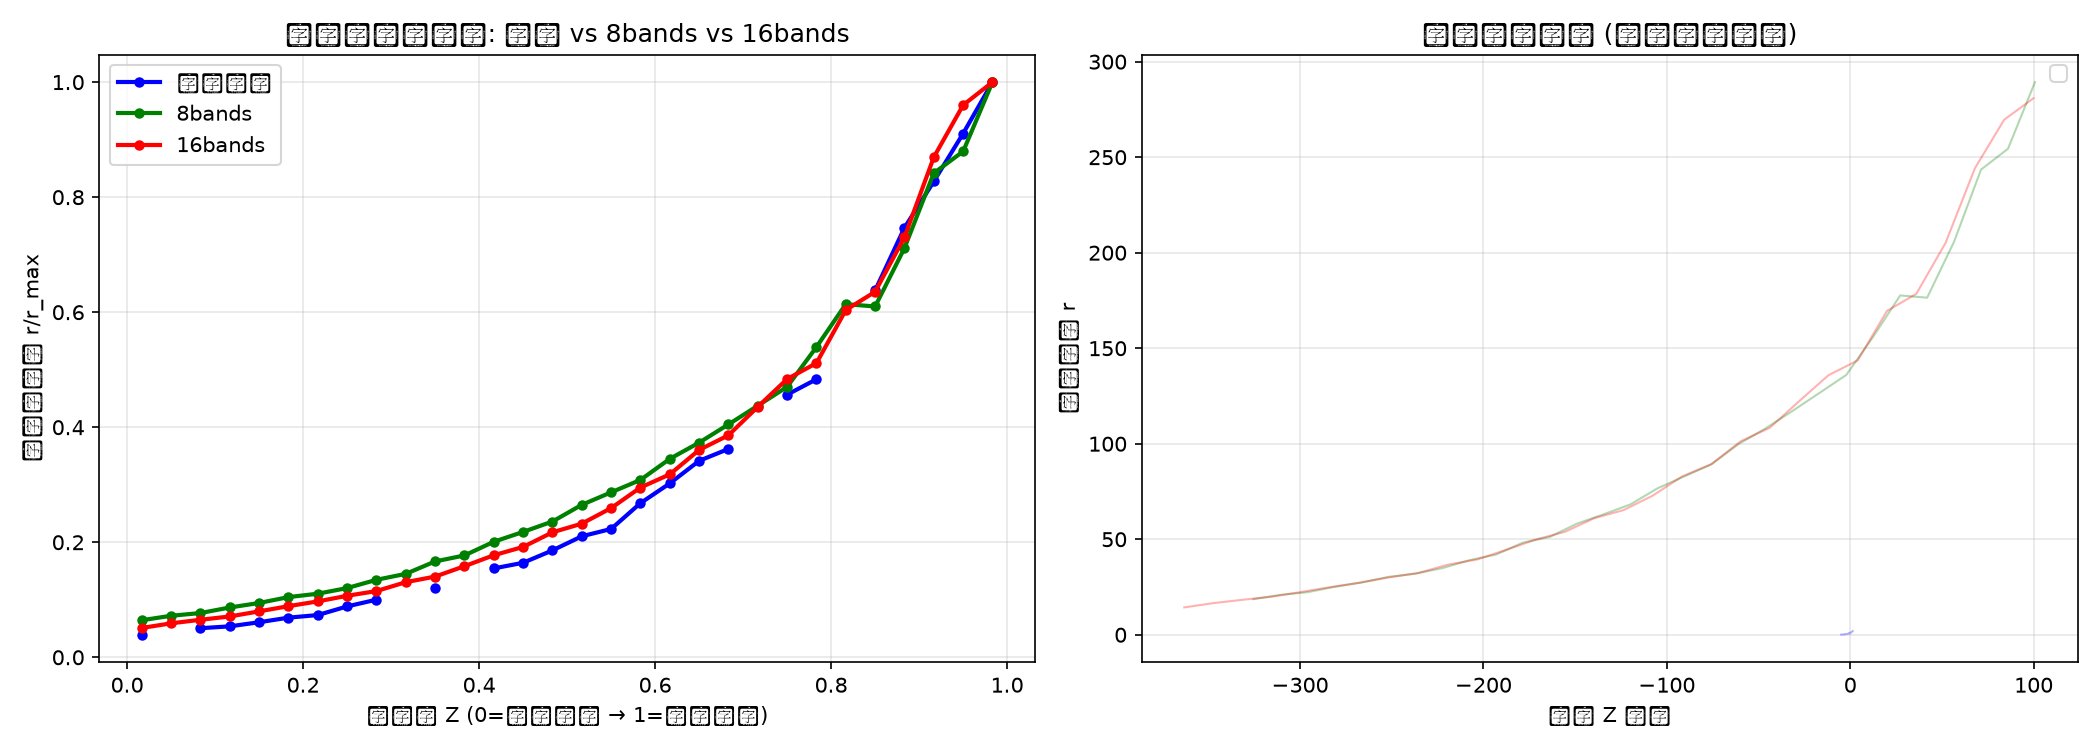
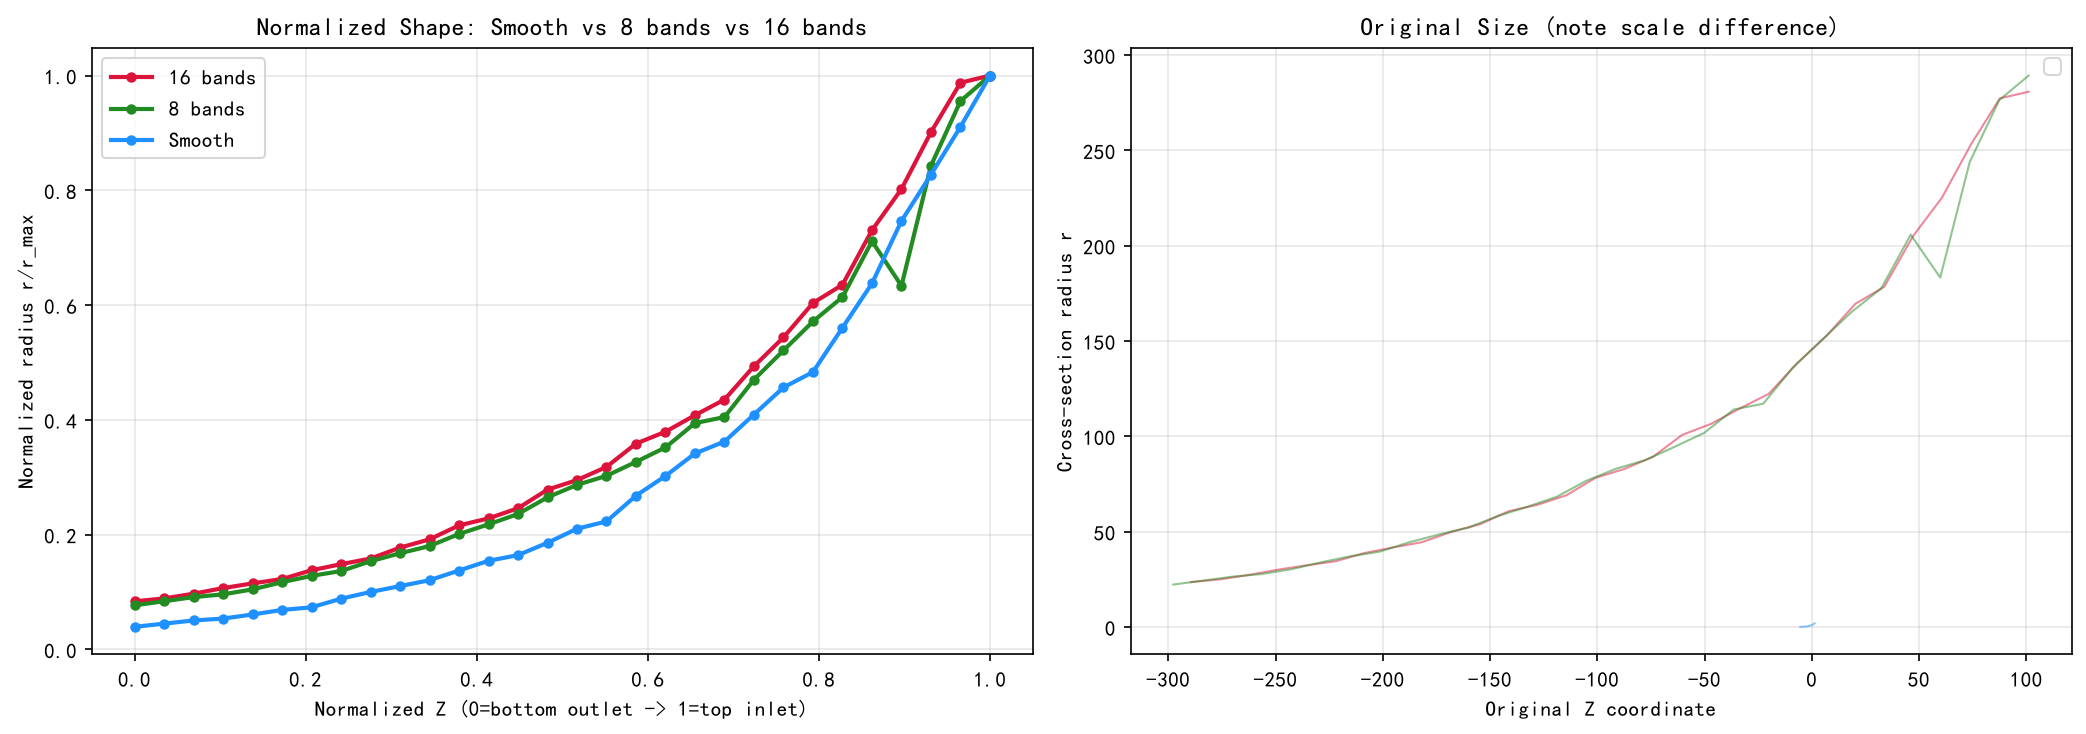
fix: CJK font fix per matplotlib铁律 — 所有标题改为ASCII避免乱码

diff --git a/L4_果实_应用与千禧证明/漏斗STL_IBM_三方对比.py b/L4_果实_应用与千禧证明/漏斗STL_IBM_三方对比.py
@@ -9,6 +9,9 @@ import numpy as np
 from scipy.fft import fftn, ifftn, fftfreq
 import struct, os, sys
 from matplotlib import pyplot as plt
+# 铁律: CJK字体必须紧接plt导入后设置
+plt.rcParams['font.sans-serif'] = ['SimHei', 'Microsoft YaHei', 'DejaVu Sans']
+plt.rcParams['axes.unicode_minus'] = False
 
 # ============================================================
 # 1. STL → r(z) 截面曲线提取